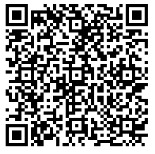
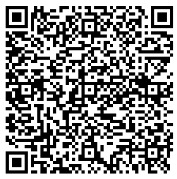
Implementado logica Autenticar Usuario e adicionadas imagens QRCodes válidas, instalado MD5 Hash

diff --git a/src/app/modules/login/modal-password/modal-password.component.ts b/src/app/modules/login/modal-password/modal-password.component.ts
@@ -1,10 +1,10 @@
-import { Component, Renderer2, OnInit, ViewChild, ElementRef, } from '@angular/core';
+import { Component, OnInit, ViewChild, ElementRef, } from '@angular/core';
 import { ModalController, NavParams, NavController, LoadingController } from '@ionic/angular';
 import { FormGroup, Validators, FormBuilder } from '@angular/forms';
 import { AppController } from '../../core/appController';
 import { AuthService } from '../auth.service';
 import { GlobalVars } from 'src/app/shared/globalVars';
-
+import { Md5 } from "md5-typescript";
 @Component({
     selector: 'app-modal-password',
     templateUrl: './modal-password.component.html',
@@ -24,7 +24,7 @@ export class ModalPasswordComponent implements OnInit {
   private navParams: NavParams) { }
   public inputValidate: boolean[] = [false,false,false,false,false,false];
 
-  ngOnInit() {
+  ngOnInit() {    
     this.forms = this.createForm();
   }
 
@@ -39,12 +39,18 @@ export class ModalPasswordComponent implements OnInit {
     // call request service to get the data
     const loader = await this.appController.presentLoadingDefault();
     try {
-      const accessToken = await this.authService.getAccessToken(this.forms.value);
-      this.globalVars.setAccessToken(accessToken);
-  
-      const user = await this.authService.getUserLoggedIn();
-  
-      this.globalVars.setUserLoggedIn(user);
+      this.forms.controls['password'].setValue(Md5.init(this.forms.value.password));
+
+      const userAuthenticated = await this.authService.authenticate(this.forms.value);
+      const { password } = userAuthenticated;
+      console.log('MD5 / digitado: ',  Md5.init(this.forms.value.password), password);
+
+      if(password !== Md5.init(this.forms.value.password)) {
+        this.appController.showWarning('Usuário ou senha inválidos!');
+        return;
+      }
+
+      this.globalVars.setUserLoggedIn(userAuthenticated);
       this.navCtrl.navigateRoot('home');
       
     } catch(err) {

diff --git a/src/app/modules/login/auth.service.ts b/src/app/modules/login/auth.service.ts
@@ -1,5 +1,7 @@
 import { Injectable } from "@angular/core";
 import { UserModel } from 'src/app/shared/models/classes/user.model';
+import { RestService } from '../core/rest.service';
+import { map } from 'rxjs/operators';
 
 @Injectable()
 export class AuthService {
@@ -7,29 +9,25 @@ export class AuthService {
     clientSecret;
     server: string;
 
-    constructor() { }
+    constructor(private restService: RestService) { }
 
-    getAccessToken({ email, password }): Promise<any> {
-        return new Promise((resolve, reject) => {       
-            console.log('email e senha passei no AuthService: ', email, password);
-            resolve("AcessToken1234");
+    authenticate({ email, password }): Promise<any> {
+        return new Promise((resolve, reject) => {
+            resolve('AccessToken1234');
         });
     }
-
-    refreshAccessToken() {
+    // getAccessToken() { Não é necessário implementar este método pois a aplicação não pode jogar o usuário pra fora da mesa nunca.
         
-    }
+    // }
 
-    getUserLoggedIn(): Promise<UserModel> {
+    register({ email, password }): Promise<UserModel> {
         return new Promise( (resolve, reject) => {
-            console.log('requisição que traz os dados do usuário logado');
-            resolve({ 
-                name: "Igor Alves", 
-                statusMsg: "She wanna hang wit the Starboy*",
-                email: "pedratto3@gmail.com", 
-                password: "123", 
-                phone: "993337275",
-                img: "https://material.angular.io/assets/img/examples/shiba1.jpg" });
+            this.restService.post('/user/store', {email, password}).pipe(map(resp => resp))
+            .subscribe((user: UserModel) => {
+                resolve(user);
+            }), (err => {
+                reject(err);
+            })
         });
     }
 }

diff --git a/src/app/modules/home/home.component.ts b/src/app/modules/home/home.component.ts
@@ -13,12 +13,12 @@ import { catchError } from 'rxjs/operators';
 export class HomeComponent {
   switchVar: string = 'command';
   qrDataFill: Object = {
-    "table_id": "5dcbd8d8718232550d6ae35e", // refazer todos os qrCodes com os ids da mesa e estabelecimentos.
-    "name": "Quiosque do Galego",
-    "lat": "-12.969220",
-    "lng": "-38.436758",
-    "tableNumber": "14",
-    "id_establishment" : "5dc5be21e3ae253cfdb84cfd"
+    "table_id": "5dcbd98b718232550d6ae367", // refazer todos os qrCodes com os ids da mesa e estabelecimentos.
+    "name": "Terapia Restaurante e Bar",
+    "lat": "-12.96936",
+    "lng": "-38.436841",
+    "tableNumber": "4",
+    "id_establishment" : "5dc5c0a4e3ae253cfdb84d00"
   };
 
   constructor(public appController: AppController,

diff --git a/src/app/shared/globalVars.ts b/src/app/shared/globalVars.ts
@@ -39,10 +39,10 @@ export class GlobalVars {
     return window.localStorage.getItem(KEY_REFRESH);
   }
 
-  setAccessToken(str: string) {
-    this.accessToken = str;
-    return window.localStorage.setItem(KEY, str);
-  }
+  // setAccessToken(str: string) { // não será usado
+  //   this.accessToken = str;
+  //   return window.localStorage.setItem(KEY, str);
+  // }
 
   setRefreshToken = (str: string) => {
     this.refreshToken = str;

diff --git a/src/app/shared/models/classes/user.model.ts b/src/app/shared/models/classes/user.model.ts
@@ -6,4 +6,8 @@ export class UserModel {
     email: string;
     password: string;
     img: string;
+    birthDate: Date;
+    created_at: Date;
+    deleted_at: Date;
+    updated_at: Date;
 }
